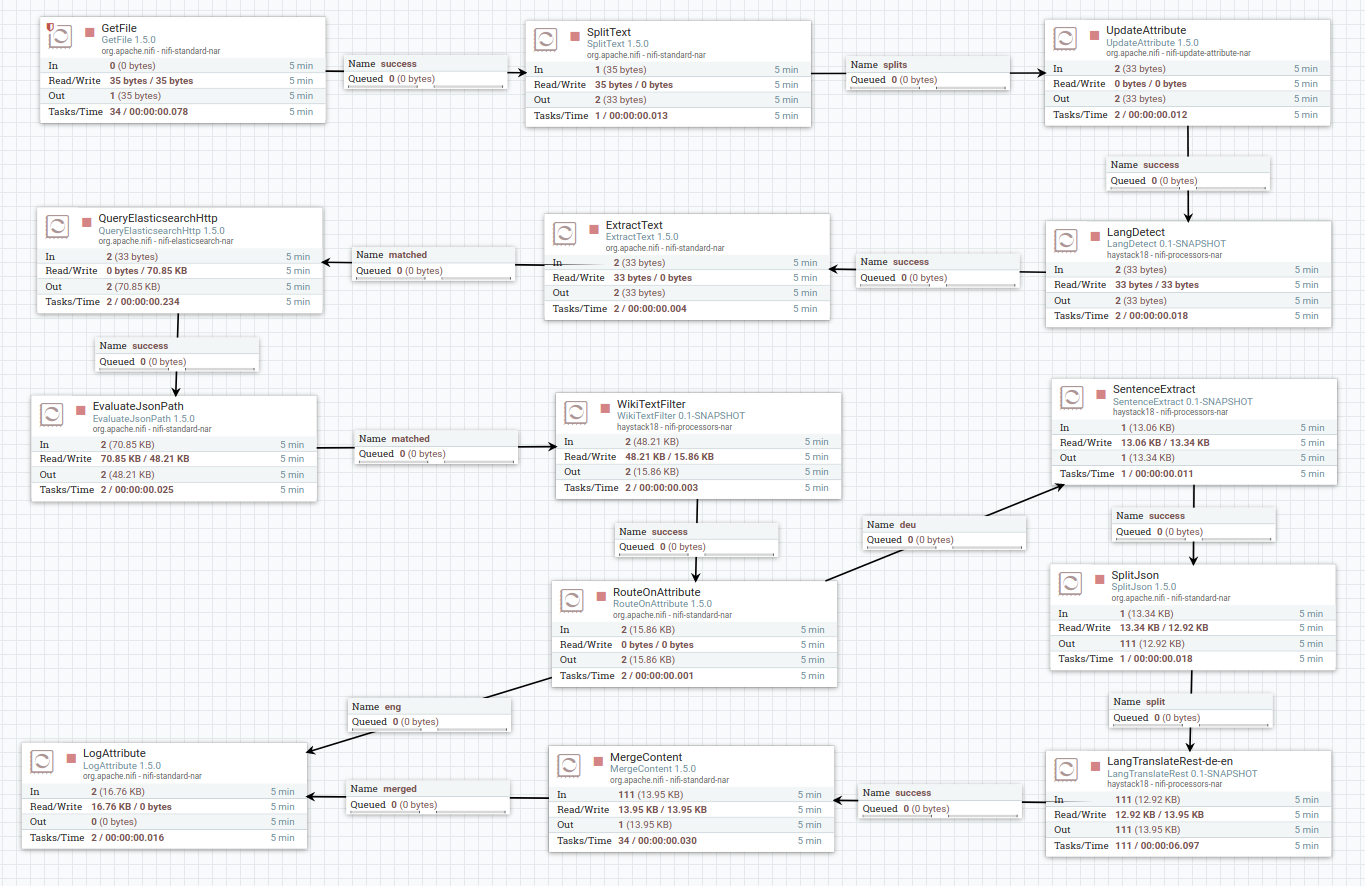
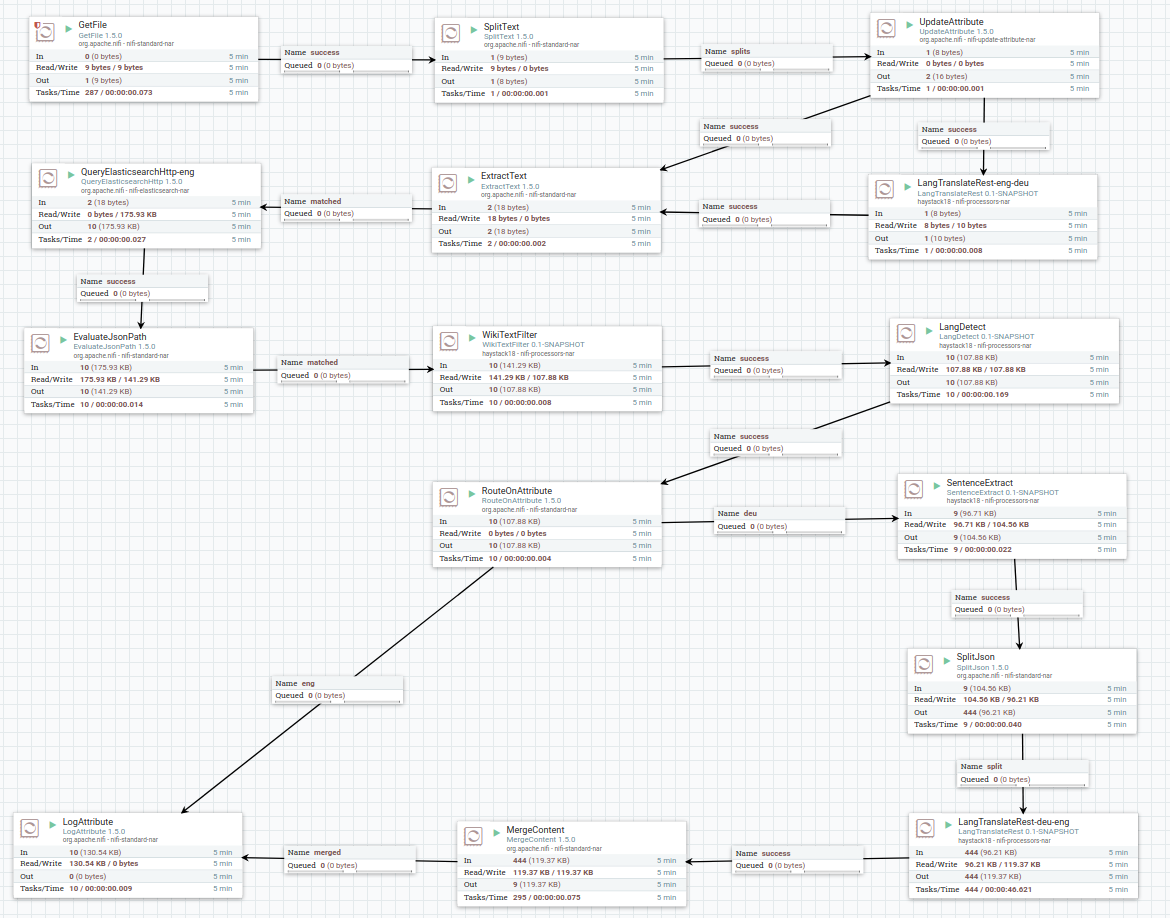
Updating flow.

diff --git a/README.md b/README.md
@@ -16,23 +16,7 @@ Here's an example flow using the processors in this repository. The flow reads f
 
 ### Walkthrough of NiFi Flow
 
-1. The search terms are read from a file (`GetFile`). Each line of the file contains a search term in some language.
-1. The file is split into separate flowfiles per line (`SplitText`) in order to process each search term.
-1. An attribute is set (`UpdateAttribute`) on each flowfile that identifies the file that each search term came from.
-1. The language of each search term is determined (`LangDetect`) and set as a new `language` attribute on the flowfile. This processor uses [OpenNLP](https://opennlp.apache.org/)'s `langdetect` capability.
-1. The search term is made the content of the flowfile (`ExtractText`).
-1. The search term is used to query an Elasticsearch index (`QueryElasticsearchHttp`). The processor determines which index to search based on the `language` attribute. For example, if the language is `eng` then the processor queries an English index of Wikipedia. If the language is `deu` then the processor queries a German index of Wikipedia.
-1. Some WikiText syntax (headings, bulleted lists) is removed from the search results (`WikiTextFilter`).
-1. The flowfile is now routed based on the `language` attribute.
-
-For `eng`:
-1. If it is `eng` the flow continues to the last processor for output.
-
-For `deu`:
-1. If the language is `deu` it is routed to a sentence extraction processor (`SentenceExtract`). This processor splits the search result text into its individual sentences via [OpenNLP](https://opennlp.apache.org/) and a German sentence model. The sentences are returned as a JSON array.
-1. The JSON array of sentences is split into a flowfile per sentence (`SplitJson`).
-1. Each sentence is now sent to Apache Joshua for translation (`LangTranslateRest-de-en`). This processor utilizes Apache Joshua's REST interface.
-1. The resulting translations are combined together (`MergeContent`) to give the full translated search result.
+The flow reads files from the file system containing a list of search terms (one per line). These are expected to be English search terms. The English term and its translated German equivalent term is used to query an Elasticsearch index containing both English and German Wikipedia pages. The search result is extracted and parsed to remove some WikiText formatting. The language of the article is determined. If the language is English the search result is returned. If the language is German, the individual sentences in the article are extracted and German to English translation is performed on each sentence. The sentences are then reassembled in order and returned as the search result.
 
 ## Usage
 
